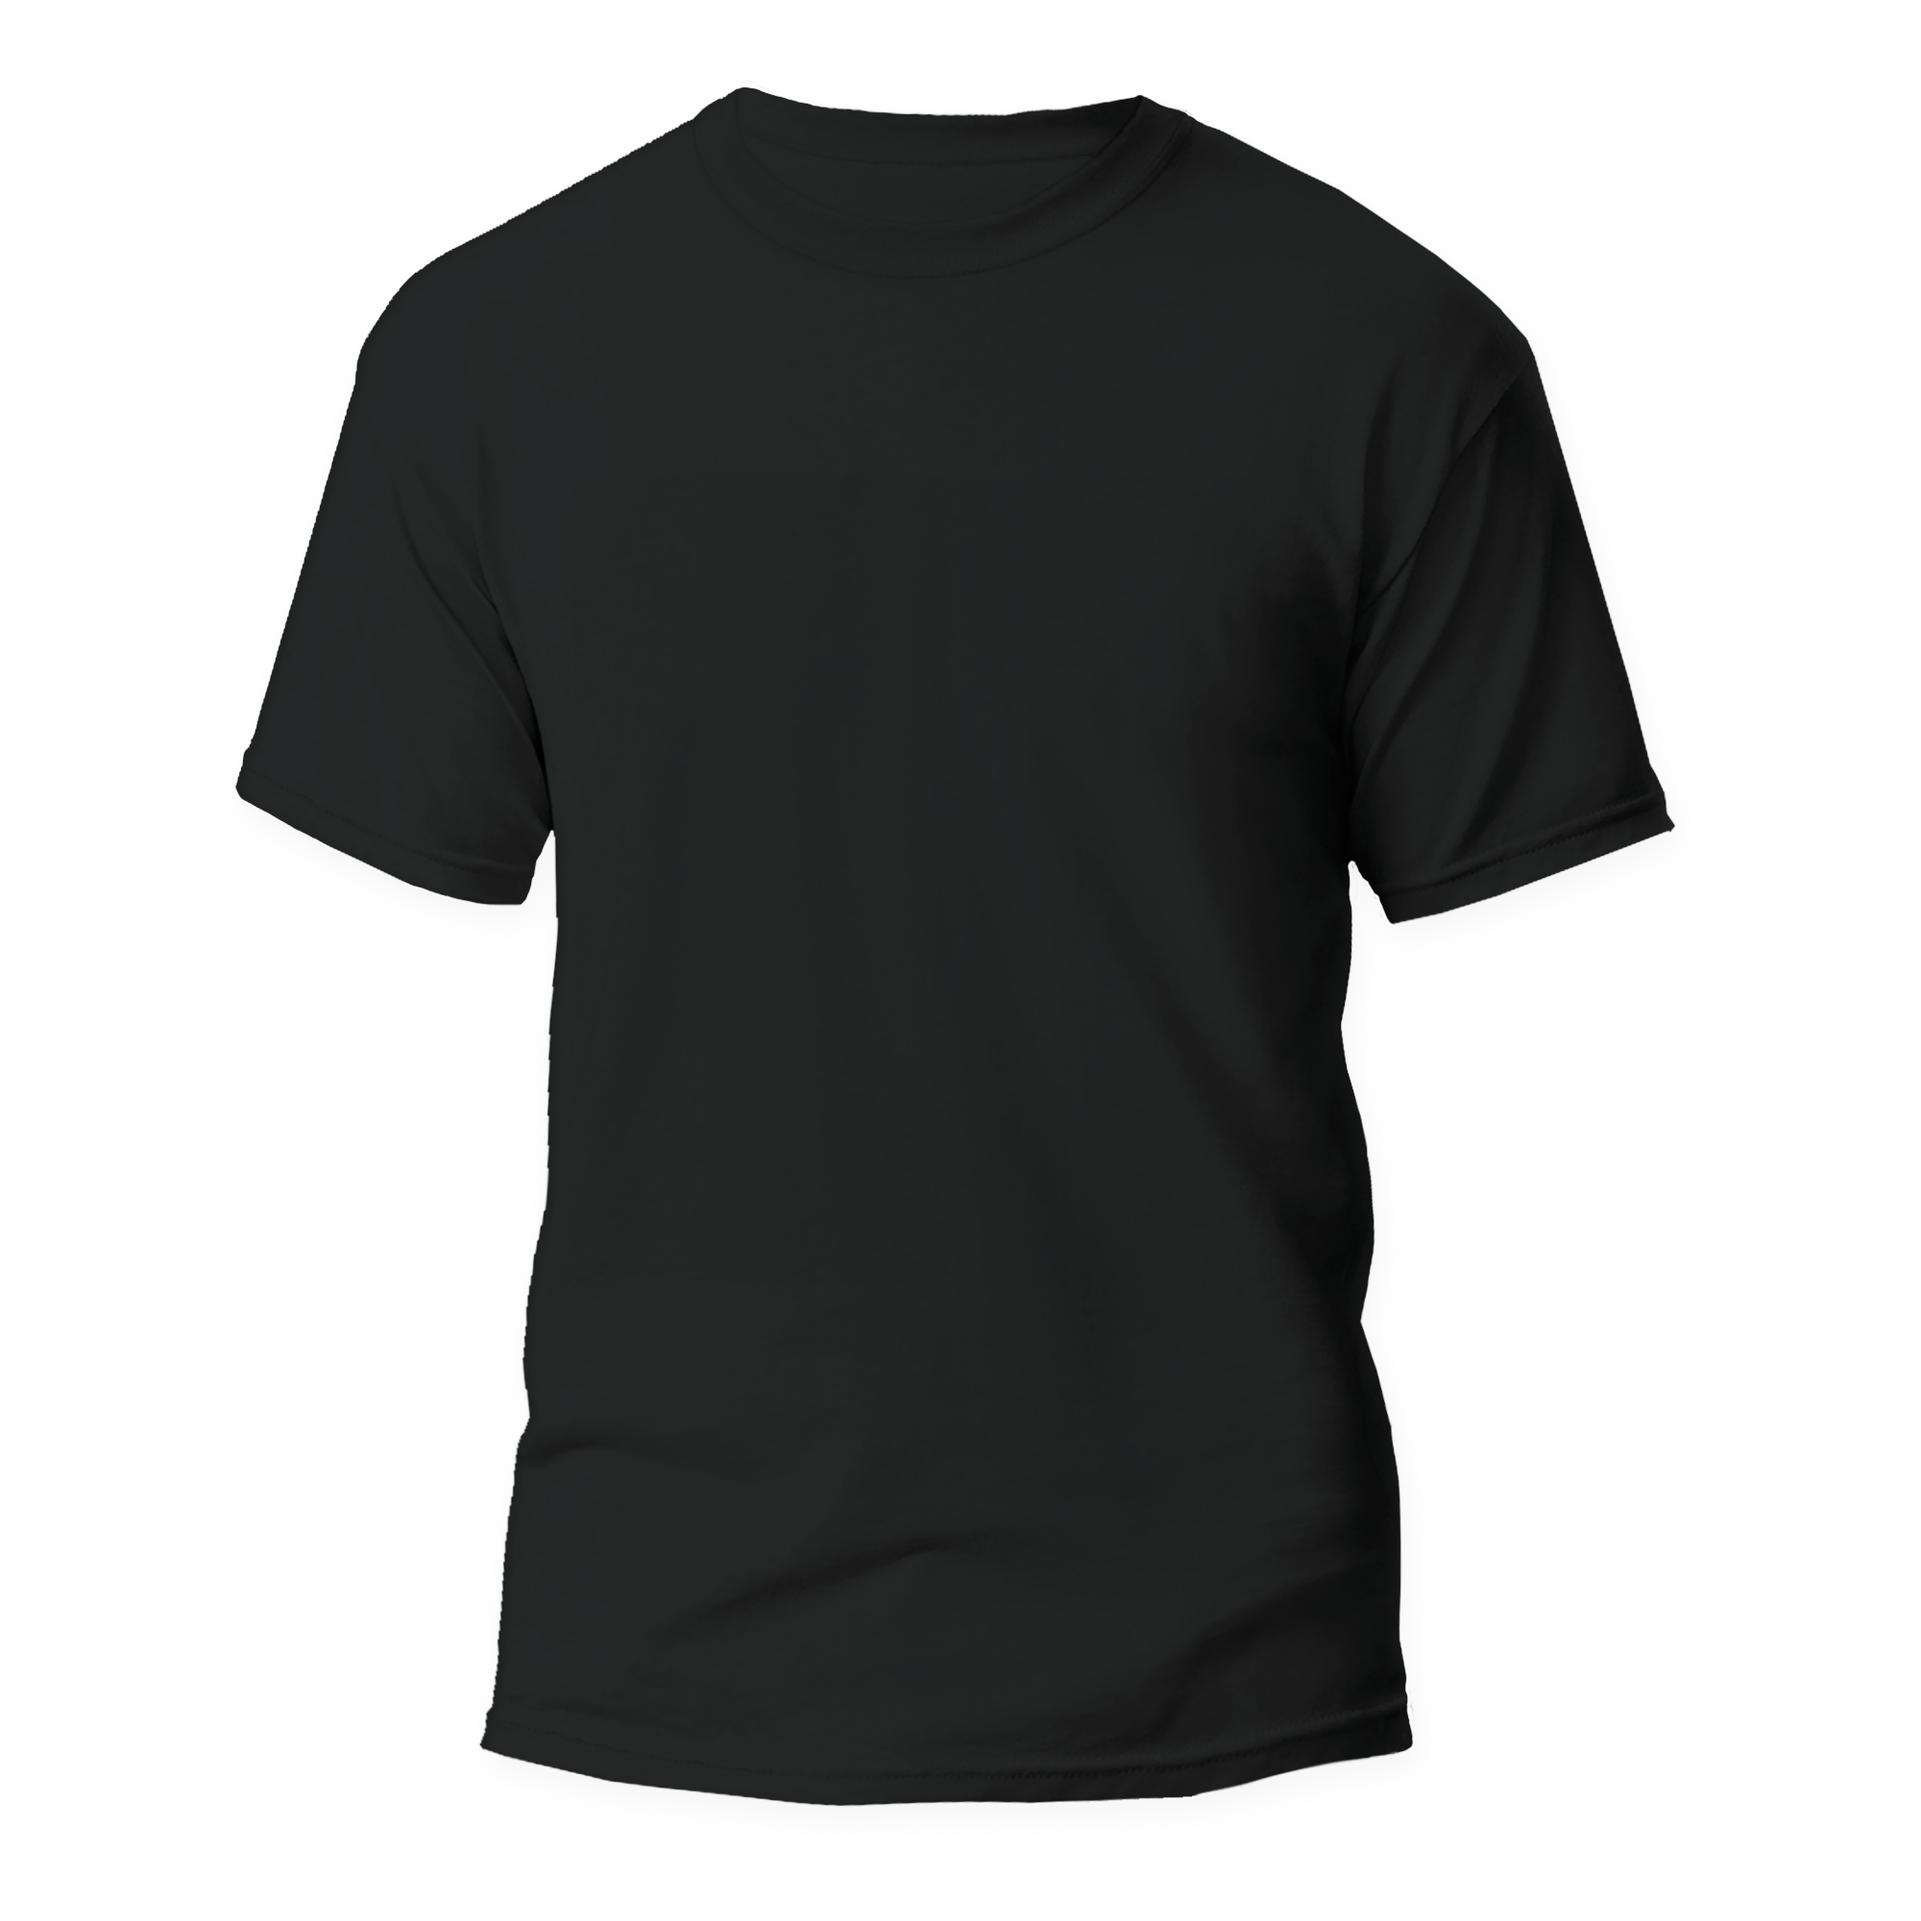
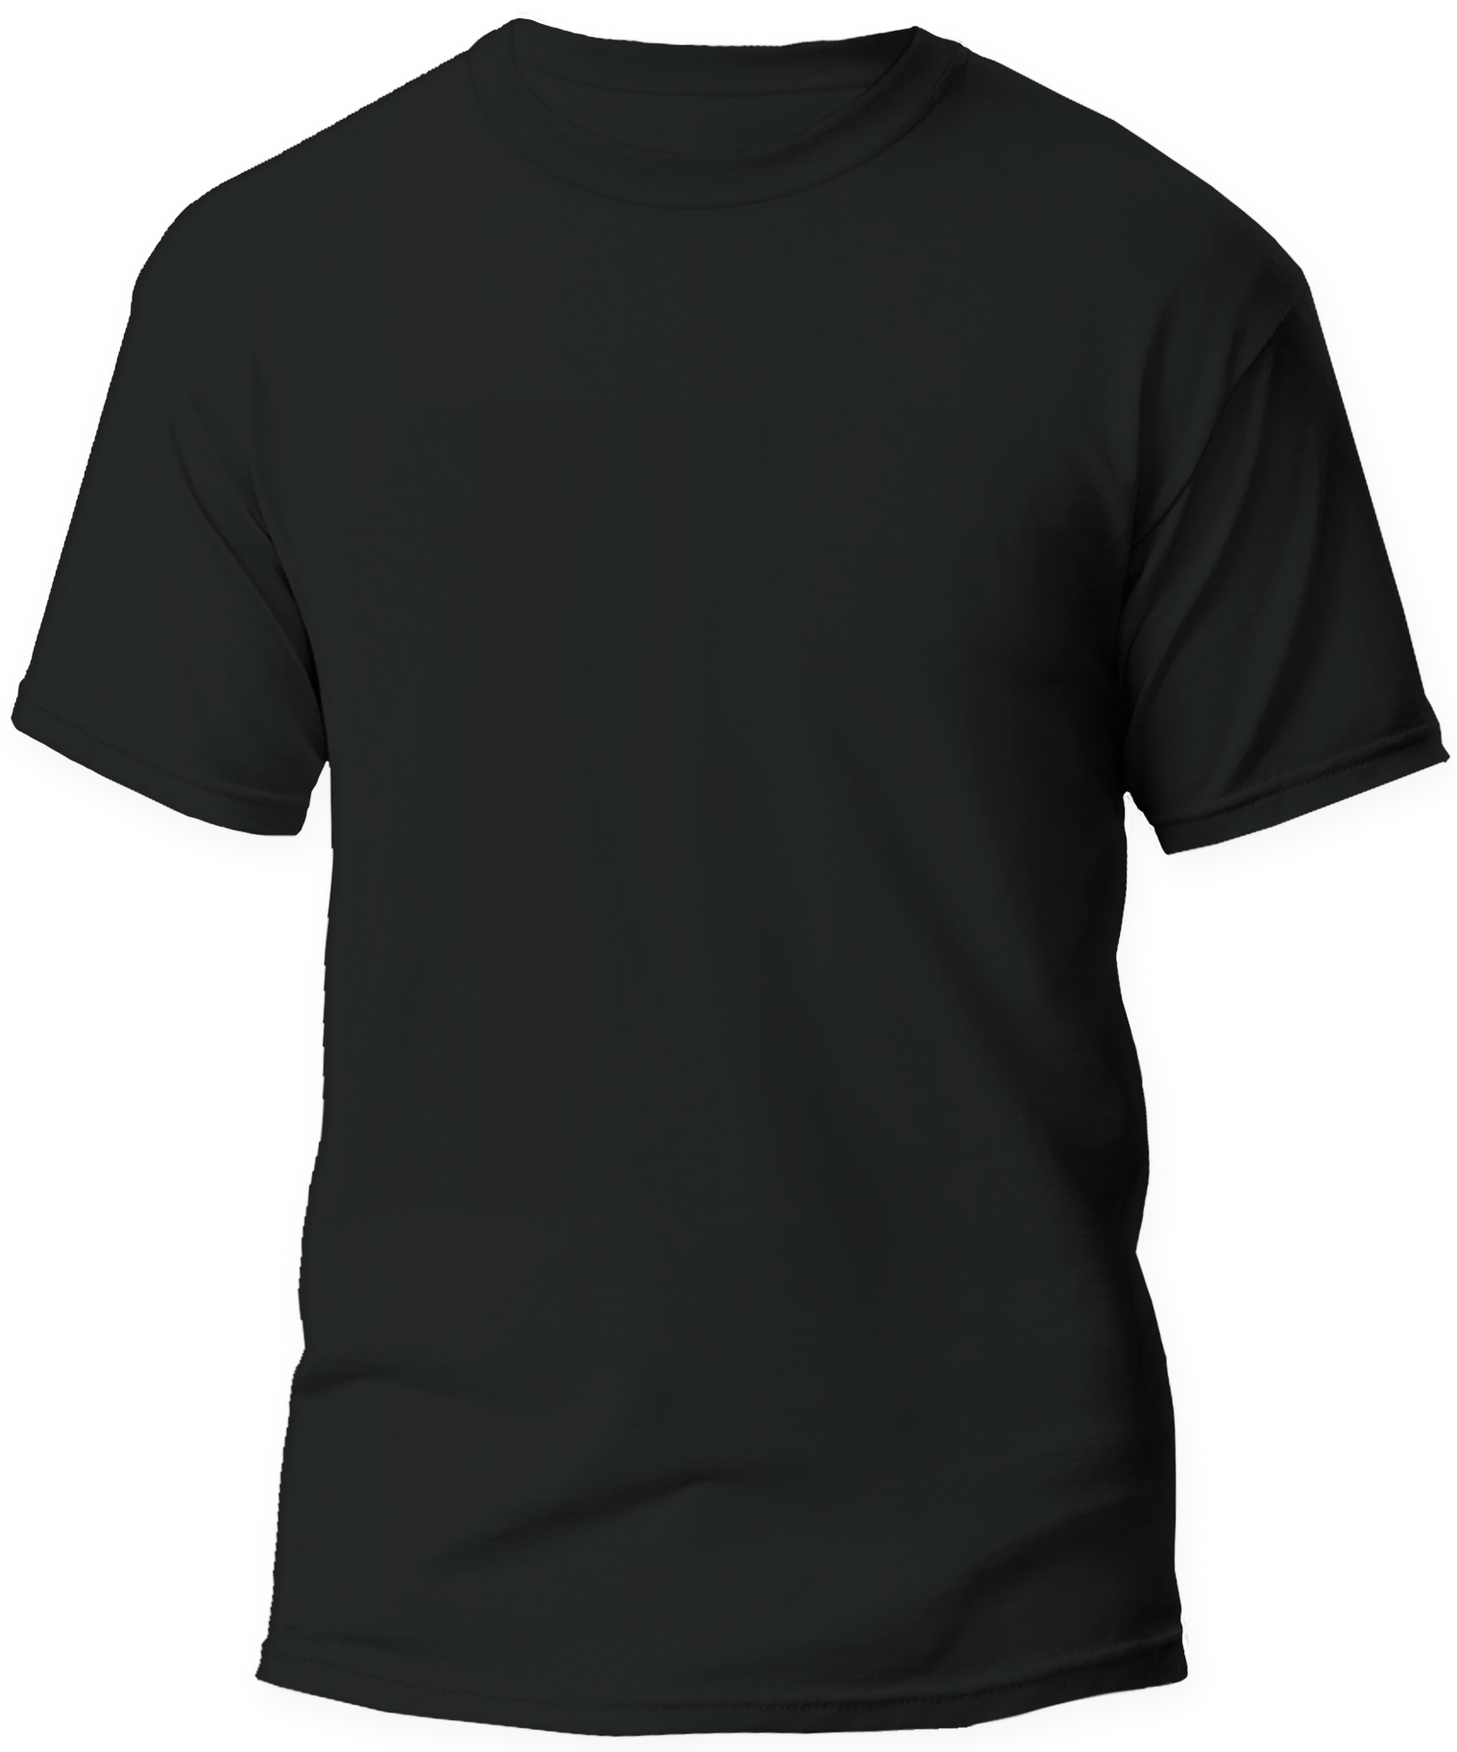
responsivness added to images and tshirts

Changed region(s): [[0.0, 0.0, 0.9914, 1.0], [0.1859, 0.375, 0.2169, 0.4062]]

diff --git a/src/pages/landing/ClothesGenerator.tsx b/src/pages/landing/ClothesGenerator.tsx
@@ -10,7 +10,7 @@ import TShirtSizeDropdown from '../../components/shared/TShirtSizeDropdown'
 import EmailCard from '../../components/EmailCard/EmailCard'
 import { useSearchParams } from 'react-router-dom'
 // @ts-ignore
-import whiteTShirt from '../../assets/images/black-tshirt.png'
+import blackTShirt from '../../assets/images/black-tshirt.png'
 
 const PROGRESS_BAR_FETCHING_INTERVAL_MS = 5000
 const DEFAULT_PROGRESS_INCREMENT = 2
@@ -170,7 +170,7 @@ const ClothesGenerator = ({ userId }: ClothesGeneratorTypes) => {
   const renderEmptyPreviewImage = (index: number) => (
     <div
       key={index}
-      className={`flex items-center justify-center border cursor-pointer border-gray-200 h-[140px] w-[140px] mx-2 rounded-md shadow-md ${
+      className={`flex items-center justify-center border cursor-pointer border-gray-200 min-h-[120px] min-w-[120px] mx-2 rounded-md shadow-md ${
         isGeneratingImages && gradientBgLoaderStyle
       }`}
     />
@@ -188,9 +188,9 @@ const ClothesGenerator = ({ userId }: ClothesGeneratorTypes) => {
     'bg-gradient-to-r from-very-light-blue via-very-light-blue to-white background-animate'
   return (
     <Container>
-      <div className='flex w-full flex-col lg:flex-row mb-10'>
-        <div className='flex flex-col w-full lg:w-[40%]'>
-          <h3 className='font-bold text-xl mt-10 mb-4'>Polje za tekst</h3>
+      <div className='flex w-full flex-col xl:flex-row mb-10'>
+        <div className='flex flex-col w-full xl:w-[40%]'>
+          <h3 className='font-bold text-xl mt-10 mb-3'>Polje za tekst</h3>
           <textarea
             value={description}
             onChange={(e) => setDescription(e.target.value)}
@@ -212,8 +212,8 @@ const ClothesGenerator = ({ userId }: ClothesGeneratorTypes) => {
 
           {!!isGeneratingImages && <EmailCard userId={userId} />}
         </div>
-        <div className='flex flex-col w-full mt-4 lg:w-[60%] lg:items-end lg:mt-4'>
-          <div className='flex items-start justify-between lg:w-[80%] md:w-[100%] flex-col sm:flex-row sm:items-center'>
+        <div className='flex flex-col w-full mt-4 xl:w-[60%] xl:items-end xl:mt-4'>
+          <div className='flex items-start justify-between xl:w-[90%] md:w-[100%] flex-col sm:flex-row sm:items-center'>
             <div className='flex justify-center items-center'>
               <h3 className='font-bold text-xl mr-4'>Boja</h3>
               <ColorPicker onColorPick={updateColor} />
@@ -223,12 +223,12 @@ const ClothesGenerator = ({ userId }: ClothesGeneratorTypes) => {
             </div>
           </div>
 
-          <div className='flex items-center justify-center w-full lg:w-[80%] h-[500px] border border-gray-200 rounded-md shadow-md'>
+          <div className='flex items-center justify-center w-full xl:w-[90%] h-[500px] border border-gray-200 rounded-md shadow-md px-2'>
             {generatedImages && generatedImages.length > 0 ? (
               <>
-                <img width={500} src={whiteTShirt} />
+                <img width={400} src={blackTShirt} />
                 <img
-                  className='absolute mb-28 mr-2 rounded-md'
+                  className='w-[150px] h-[150px] sm:w-[170px] sm:h-[170px] absolute mb-28 mr-1 sm:mr-2 rounded-md'
                   width={170}
                   src={generatedImages[focusedPhotoIndex]}
                 />
@@ -237,9 +237,9 @@ const ClothesGenerator = ({ userId }: ClothesGeneratorTypes) => {
               <div
                 className={`text-gray-400 font-bold flex justify-center items-center rounded-md h-full w-full relative overflow-hidden`}
               >
-                <img width={500} src={whiteTShirt} />
+                <img width={400} src={blackTShirt}/>
                 <div
-                  className={`w-[170px] h-[170px] absolute mb-28 mr-2 rounded-md ${
+                  className={`w-[150px] h-[150px] sm:w-[170px] sm:h-[170px] absolute mb-28 mr-1 sm:mr-2 rounded-md ${
                     isGeneratingImages ? gradientBgLoaderStyle : 'bg-gray-200'
                   }`}
                 />
@@ -269,7 +269,7 @@ const ClothesGenerator = ({ userId }: ClothesGeneratorTypes) => {
             )}
           </div>
 
-          <div className='flex items-center justify-center w-full lg:w-[80%] mt-2'>
+          <div className='flex items-center md:justify-center w-full xl:w-[90%] mt-2 overflow-x-auto'>
             {generatedImages.length > 0
               ? generatedImages.map((imageUrl, index) => {
                   return renderPreviewImage(imageUrl, index)
@@ -278,7 +278,7 @@ const ClothesGenerator = ({ userId }: ClothesGeneratorTypes) => {
                   return renderEmptyPreviewImage(index)
                 })}
           </div>
-          <div className='flex items-center justify-center w-full lg:w-[80%] mt-7'>
+          <div className='flex items-center justify-center w-full xl:w-[80%] mt-7'>
             <Button
               isMain
               text={'Dodaj u korpu'}

diff --git a/src/pages/landing/ExamplesCarousel.tsx b/src/pages/landing/ExamplesCarousel.tsx
@@ -3,7 +3,7 @@ import ExampleItem from '../../components/examples/ExampleItem'
 import Slider from 'react-slick'
 import 'slick-carousel/slick/slick.css'
 import 'slick-carousel/slick/slick-theme.css'
-import {MEDIUM_SCREEN, SMALL_SCREEN} from "../../constants/screenSizes"
+import {LARGE_SCREEN, MEDIUM_SCREEN, SMALL_SCREEN} from "../../constants/screenSizes"
 // @ts-ignore
 import logo from '../../assets/images/logo3.png'
 // @ts-ignore
@@ -13,7 +13,6 @@ import imgCoffee from '../../assets/images/example-coffee.png'
 // @ts-ignore
 import imgNoleLidl from '../../assets/images/example-nole-lidl.png'
 
-const BREAKPOINT_OFFSET = 80
 const SLIDER_SPEED = 500
 
 const ExamplesCarousel = () => {
@@ -24,10 +23,8 @@ const ExamplesCarousel = () => {
     useEffect(() => {
         const handleResize = () => {
             const screenWidth = window.innerWidth;
-            if (screenWidth < SMALL_SCREEN + BREAKPOINT_OFFSET) {
+            if (screenWidth < LARGE_SCREEN) {
                 setNumOfSlides(1)
-            } else if (screenWidth < MEDIUM_SCREEN + BREAKPOINT_OFFSET) {
-                setNumOfSlides(2)
             } else {
                 setNumOfSlides(3)
             }

diff --git a/src/components/examples/ExampleItem.tsx b/src/components/examples/ExampleItem.tsx
@@ -10,7 +10,7 @@ const ExampleItem = ({ imgSrc, description }: { imgSrc: string, description: str
         <img
           src={imgSrc}
           alt='generated-image'
-          className={`w-[115px] h-[115px] absolute mb-28 mr-2 rounded-md`}
+          className={`w-[150px] h-[150px] lg:w-[120px] lg:h-[120px] xl:w-[150px] xl:h-[150px] absolute mb-28 mr-2 rounded-md`}
         />
       </div>
       <div className='m-auto w-[70%] text-gray-500 my-4 h-12'>
